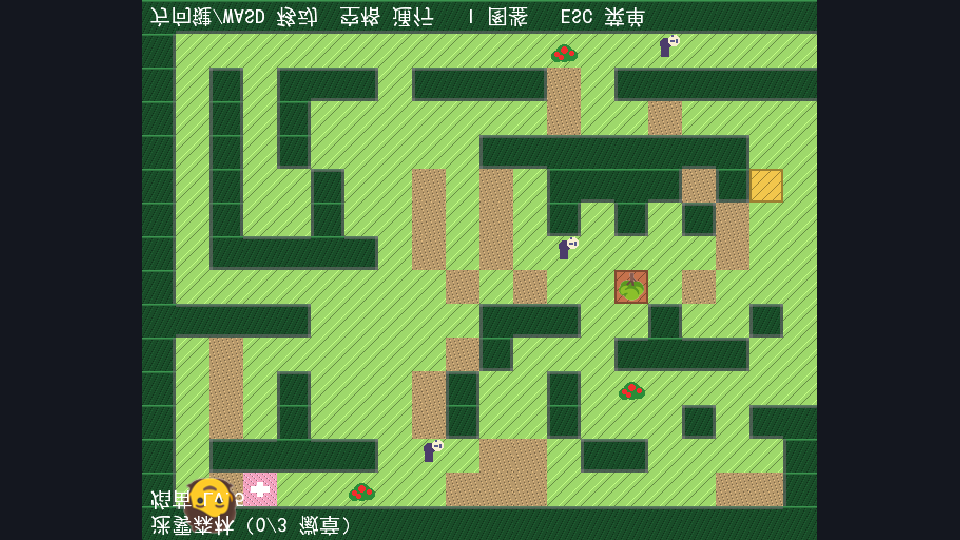
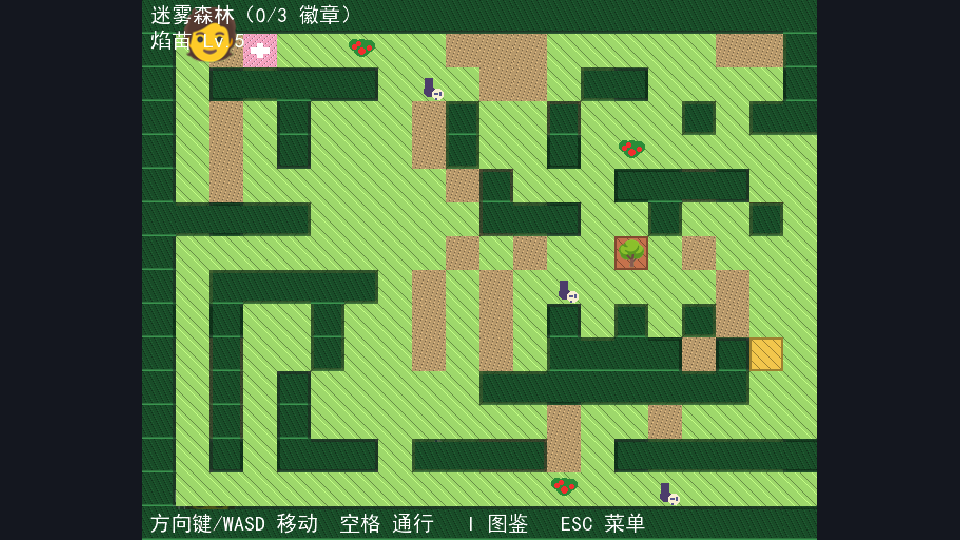
Fix upside-down F12 screenshots; regenerate docs screenshots

diff --git a/core/src/main/java/com/wildspirit/WildSpiritGame.java b/core/src/main/java/com/wildspirit/WildSpiritGame.java
@@ -96,6 +96,16 @@ public class WildSpiritGame extends Game {
         try {
             Pixmap pm = Pixmap.createFromFrameBuffer(0, 0,
                     Gdx.graphics.getBackBufferWidth(), Gdx.graphics.getBackBufferHeight());
+            // OpenGL 帧缓冲行序自底向上，转换为 PNG 前需上下翻转，否则截图颠倒
+            int w = pm.getWidth(), h = pm.getHeight();
+            for (int y = 0; y < h / 2; y++) {
+                for (int x = 0; x < w; x++) {
+                    int top = pm.getPixel(x, y);
+                    int bottom = pm.getPixel(x, h - 1 - y);
+                    pm.drawPixel(x, y, bottom);
+                    pm.drawPixel(x, h - 1 - y, top);
+                }
+            }
             FileHandle fh = Gdx.files.external("WildSpirit/screenshot.png");
             fh.parent().mkdirs();
             PixmapIO.writePNG(fh, pm);

diff --git a/CHANGELOG.md b/CHANGELOG.md
@@ -9,6 +9,7 @@
 - 新增 7 只精灵：焰角兽（初始精灵进化）、毒孢菇、沙蝎 → 毒蝎王、翠甲龙 → 苍木龙、雪鸮；精灵总数 18 → 25
 - 三大头目升级：藤蔓王（催眠粉）、沙暴狮（毒牙），敌方 AI 会用状态技
 - 状态随存档保存，旧存档兼容
+- 修复：F12 / 自动截图上下颠倒的问题（OpenGL 帧缓冲行序与 PNG 不同，现已翻转修正）
 
 ## v0.3 — 技能 PP / 进化动画 / NPC 对话
 
